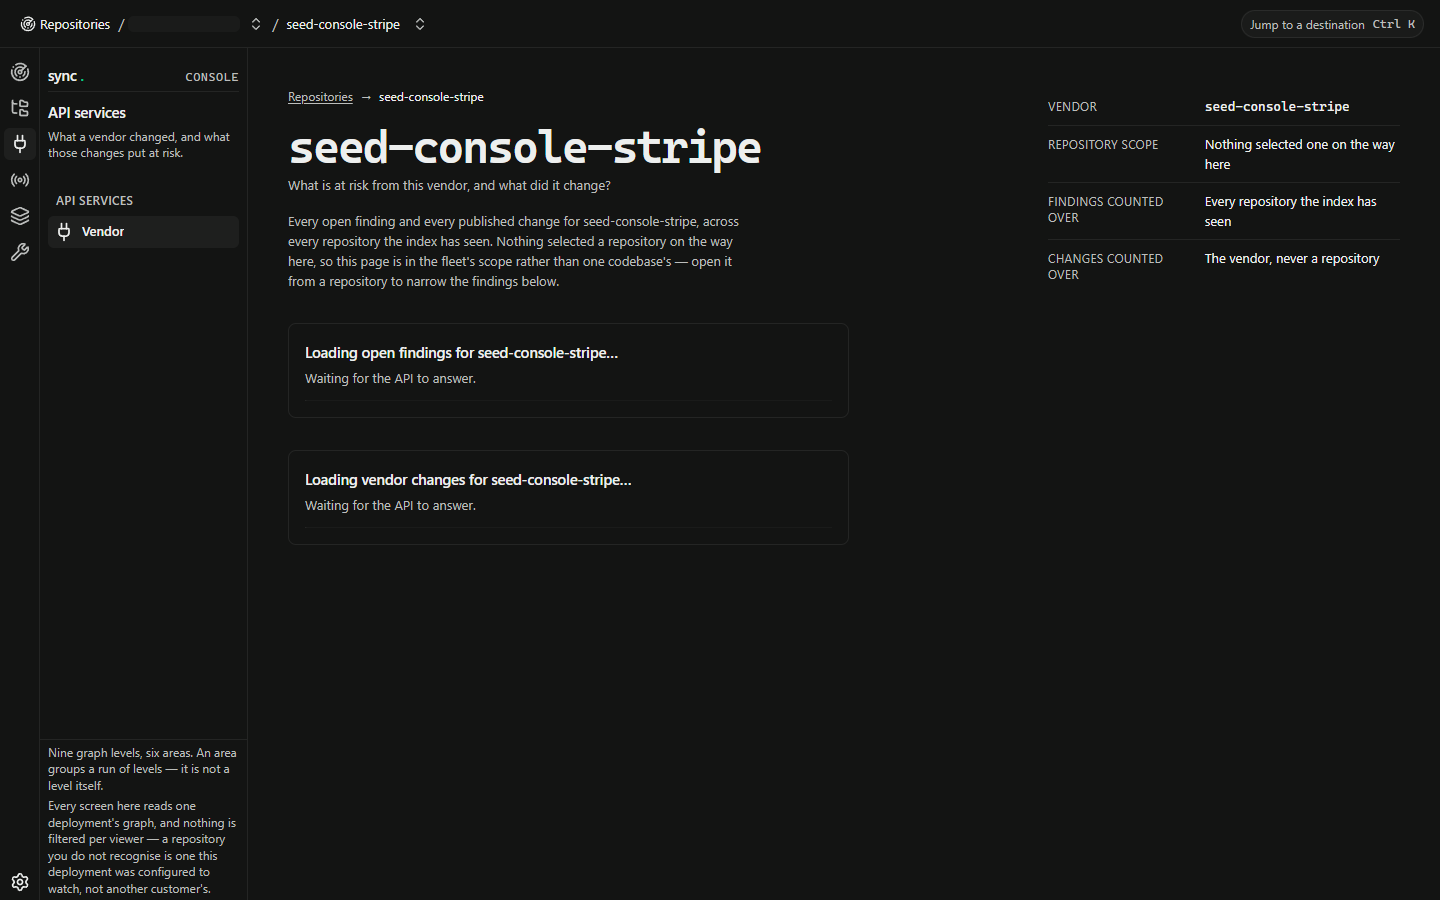
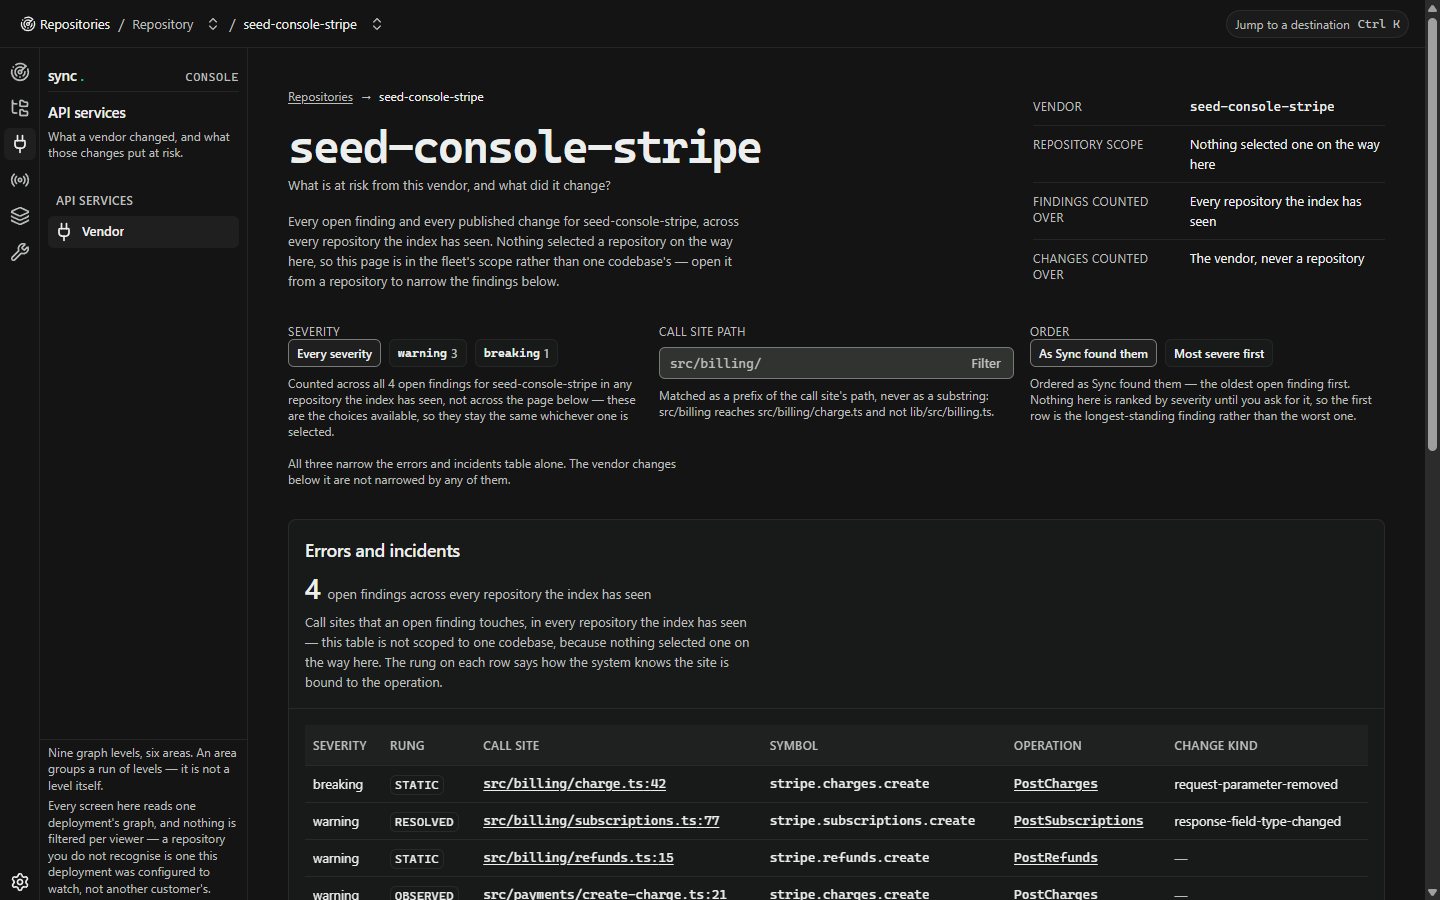
docs: M14-W361 a UI document showing every console screen as it looks today
The owner asked to see the UI from the git repo. docs/console-ui.md carries
nine screenshots at 1440x900, captured from a production build served as
static assets behind the shared-credential gate, with relative links so it
renders on GitHub without anything to run.

capture-console.mjs was fixed before it was used. It still embedded
credentials in the URL, and Chrome does not attach those to a page's own
fetch calls -- so it would have photographed a console whose every panel
had failed. Three measurements in this work were invalidated by exactly
that, and a screenshot is the one artifact where the mistake is invisible
to whoever opens it later. It now sends the credential as a header and
waits for every panel to resolve rather than for the document to have text.

The document says what the pictures are: real screens, fixture rows. It
points at the plan to make the dev console read this repository's own graph
instead, and names what is deliberately not in the set -- the empty state,
the abandoned run, and the comparison against the drawing -- with the
report that covers each.

diff --git a/docs/superpowers/WORKLOG.md b/docs/superpowers/WORKLOG.md
@@ -294,6 +294,7 @@ write path, are unbuilt; Phase 6 needs auth and tenancy and belongs to M4's host
 | M14-W358 | Fleet re-audited on the fixed instrument, and the first prose cut this work has justified. `prose-audit.mjs` carried the SAME unsettled-readiness defect the eval had and was fixed the same way first, so the audit does not repeat what it was written to catch. Settled Fleet is 1777 characters: 1327 protected (change-unit grain twice, staleness-not-liveness, absence-is-not-zero, three-attempts-one-finding, the fleet-versus-codebase scope sentence) and 450 discretionary against the mock's 340 -- over by 110, the first real gap to survive a correct measurement. Cut: `Git repository - Monitored by Sync` rendered on every card, 170 of those 450 characters, carrying no distinction and telling a reader nothing they do not know from being on Sync's own repository list. Verified by re-running rather than asserting -- 1777 to 1607, discretionary 450 to 280, now UNDER the mock's 340, with all four protected sentences confirmed still present in the same run | landed | `web/src/features/fleet/codebases-panel.tsx`, `web/src/features/fleet/codebases-panel.test.tsx`, `web/scripts/prose-audit.mjs` |
 | M14-W359 | Screen-by-screen re-audit on the fixed instrument, which found a FOURTH defect of the same shape in the instrument itself: `prose-audit.mjs` refused on unreachable-style wordings and did not know a not-found panel, so it counted 302 characters of error prose as console prose on codebase. Fixed structurally rather than with another phrase -- every failed panel renders `ErrorState` and every one with a retry renders a `Try again` control, so the control is the marker, and both instruments now share it. Audited: `observe` is 3085 characters and roughly 80% protected -- rung-as-class-of-evidence, the refusal to compute a precision figure with no labelled corpus, scope-not-rendering, composition-not-quantity, and two never-measured statements -- with the discretionary remainder being the route question and figure labels, so NO CUT AVAILABLE. `codebase` cannot be audited at all, and why is worth more than the audit: both its telemetry routes 404 for a repository `/api/repositories` lists, filed as B147, which is absence-versus-zero violated one layer below the console | landed | `web/scripts/prose-audit.mjs`, `web/scripts/visual-eval.mjs`, `docs/superpowers/reports/2026-08-17-visual-eval-first-run.md`, `docs/superpowers/BACKLOG.md` |
 | M14-W360 | Fetch audit across all seven screens, run ahead of the remaining prose audits because it changes how those are scored. Reports rather than fails, since over-fetching is a cost finding and a gate refusing on it would block correct work; no dependency added, because `Network.requestWillBeSent` over the same CDP-and-WebSocket transport the other two instruments use was already available. Findings: Fleet issues SIX `/api/overview` requests, one fleet-wide and one per repository, which is an N+1 that scales with the fleet -- and is not a bug, because the scoped call is what W265 added to stop every card showing the fleet-wide count; filed as B148 for Lane E, since the fix is a payload change. Fleet also fetches `/api/runs` twice with different limits, the coupling flagged as a Minor in W264's review and now measured. Every route pays two shell requests for the scope trail, which are read rather than wasted. No panel was found fetching a payload it does not read | landed | `web/scripts/fetch-audit.mjs`, `docs/superpowers/reports/2026-08-17-console-fetch-audit.md`, `docs/superpowers/BACKLOG.md` |
+| M14-W361 | `docs/console-ui.md`: every console screen as it looks today, nine screenshots at 1440x900 from a production build behind the credential gate, rendering on GitHub from the repo. Written for the owner's request to see the UI from the git repo. `capture-console.mjs` was FIXED FIRST -- it still used URL-embedded credentials, which Chrome does not attach to a page's own fetches, so it would have photographed a console whose every panel had failed; a screenshot is the one artifact where that mistake is invisible to whoever opens it later. It now sends the header and waits for panels to settle rather than for the document to have text. The document says plainly that the rows are the seeded fixture rather than customer data, points at the plan to change that, and names what is deliberately absent from the set -- the empty state, the abandoned run, and the mock comparison -- with the report that covers each | landed | `docs/console-ui.md`, `web/scripts/capture-console.mjs`, `docs/superpowers/reports/screens/2026-08-17/` |
 | CI-W291 | Gate 4's suite component reads the verdict CI already produced instead of running the suite again: `--suite-result` off `needs.serial.result`, with `skipped` and `cancelled` treated as absence rather than success. The nightly is deliberately NOT given `--run-suite` — its `coverage` job already runs and gates the whole suite, so a second run would be four minutes for a duplicate answer that can disagree with the first | landed | `.github/workflows/ci.yml`, `scripts/beta_gates.py` |
 | M0-W256 | The registers say what is true today rather than what was true a fortnight ago. `BACKLOG.md`'s milestone table is rewritten against `git log` and the gate meter: M5 from ~35% to ~80%, M12 from ~10% to ~55%, M8 and M9 to done, M10 to ~85%, and M8-M11 split into four rows because they no longer share a state. A dated status section carries the four measured gate verdicts, the order work should be done in and why, and who owns which paths right now. `WORKLOG.md` gains a preamble saying it is a register rather than a report, and how to read 72 interleaved rows by lane prefix instead of in file order | landed | `docs/superpowers/BACKLOG.md`, `docs/superpowers/WORKLOG.md` |
 | M0-W257 | Gate 3 recorded MET -- the first of four, cleared by measurement. Its two failed attempts are recorded with it because they are the lesson: a signature stale in forty-four minutes, then a gate made unclearable by one compiled-in report path, both found by the lane being blocked rather than by the coordinator. The scope also gains the one console gap that would block a design-partner beta, from the lane best placed to name it: every walk has run against the seeded fixture, while a partner's first five minutes are configured-and-empty, and nobody has looked at that state on a console whose whole argument is that absence is not zero | landed | `docs/superpowers/plans/2026-08-17-sync-to-beta-scope.md` |

diff --git a/docs/console-ui.md b/docs/console-ui.md
@@ -1,0 +1,116 @@
+# The operator console, as it looks today
+
+**Captured 2026-08-17 at 1440×900** from a production build served as static assets behind the
+shared-credential gate, against a seeded graph. Every image below is a real screenshot of the running
+console — not a mockup, not a drawing.
+
+Regenerate the whole set with one command; see [Regenerating these](#regenerating-these) at the
+bottom.
+
+> **What you are looking at is the seeded fixture, not a customer's data.** Repository and vendor
+> names come from `scripts/seed_console.py`. The screens are real; the rows in them are a fixture.
+> `docs/superpowers/plans/2026-08-17-sync-watches-sync.md` is the plan to point the dev console at
+> this repository's own graph instead.
+
+---
+
+## Repositories — the landing screen
+
+The fleet-wide view: what Sync is watching and what needs acting on.
+
+![Repositories](superpowers/reports/screens/2026-08-17/01-fleet.png)
+
+Worth noticing, because each is a deliberate decision rather than a style:
+
+- **The STANDING column says what it cannot know.** *"no remediation run has ever been attempted for
+  this change unit, or this deployment has no checkpointer to ask — the two look the same from
+  here."* It names the two kinds of nothing it cannot tell apart instead of picking one.
+- **`REPOSITORIES INDEXED 5 · Never indexed has no row.`** A count that says what it excludes.
+- **No health score anywhere.** There is no composite figure, no traffic light and no green dot, and
+  that is a standing refusal rather than an omission: a scalar averaging three gates would collapse
+  *"we could not check"* onto the same axis as *"we checked and it passed"*.
+- **The footer names the deployment's scope**, so an unfamiliar repository reads as one this
+  deployment watches rather than as somebody else's data.
+
+## Codebase — one repository
+
+![Codebase](superpowers/reports/screens/2026-08-17/02-codebase.png)
+
+## API service — one vendor
+
+![Vendor](superpowers/reports/screens/2026-08-17/03-vendor.png)
+
+## Signals — what is attached, and what each source reported
+
+![Signals](superpowers/reports/screens/2026-08-17/04-signals.png)
+
+This screen carries the clearest statement of the never-measured distinction: a role with nothing
+attached *"was never asked, because there is no adapter, no configuration table and no row here to
+ask — which is a different fact from an attached integration that was asked and had nothing to
+report."*
+
+## Finding — one call site at risk
+
+![Finding](superpowers/reports/screens/2026-08-17/06-finding.png)
+
+## Solution workflow — what Sync did about it, node by node
+
+The screen the product's argument rests on, and the one worth looking at longest.
+
+![Solution workflow](superpowers/reports/screens/2026-08-17/07-workflow.png)
+
+- **The outcome sits inside the sequence**, at the node the run actually reached — not in a banner
+  at the top. A reader sees *where* the run stopped rather than being told *that* it stopped.
+- **Nodes that never ran say "never ran"**, not "not yet". Terminal is different from pending.
+- **The Activity panel says how it was built**: *"Assembled at read time from the checkpointer.
+  Nothing writes a timeline row."*
+- **Absence is counted, not hidden**: *"6 nodes have written no checkpoint timestamp and have no row
+  here — absence, not zero."*
+- **Nothing claims the run is alive.** There is no pulse and no dot, because a run parked on a
+  customer's CI and a run that has died write the same nothing into a checkpoint.
+
+## Pull request — the evidence bundle
+
+![Pull request](superpowers/reports/screens/2026-08-17/08-pull-request.png)
+
+## Detectors — which detector is producing false positives
+
+![Detectors](superpowers/reports/screens/2026-08-17/09-detectors.png)
+
+Every bar is the same length on purpose: the segments are a composition, not a quantity. Encoding
+volume as length would draw a detector holding three findings as a sliver indistinguishable from
+nothing, next to one holding ten thousand.
+
+## Settings — what this deployment watches
+
+![Settings](superpowers/reports/screens/2026-08-17/10-settings.png)
+
+The adapter table renders **"Nothing received"** rather than `0`, over a heading that states the
+rule: an adapter with nothing received *has never delivered*, which is not the same as having
+delivered nothing.
+
+---
+
+## What is not shown here
+
+- **The empty state** — a fresh deployment before anything is indexed. It is walked and recorded in
+  `superpowers/reports/2026-08-17-gate-3-empty-state.md`.
+- **The abandoned run**, which needs a finding whose newest generation abandoned;
+  `superpowers/reports/2026-08-17-abandoned-run-walk.md` renders and describes it.
+- **The drawn reference**, `docs/console-mock/`, and how far the build is from it — measured
+  property by property in `superpowers/reports/2026-08-17-visual-eval-first-run.md`.
+
+## Regenerating these
+
+```sh
+uv run python -m sync.api                                  # the API, on 8787
+uv run python scripts/seed_console.py                      # the fixture
+cd web && npm run build
+SYNC_CONSOLE_PASSWORD=<a-credential> node scripts/serve-console.mjs
+node scripts/capture-console.mjs                           # writes a dated directory
+```
+
+`capture-console.mjs` reads its subjects off the running API rather than hardcoding them, so a
+reseed cannot quietly fill the directory with not-found screens, and it waits for every panel to
+resolve before the shutter — a screenshot of a half-loaded screen looks like a design decision to
+whoever opens it later.
